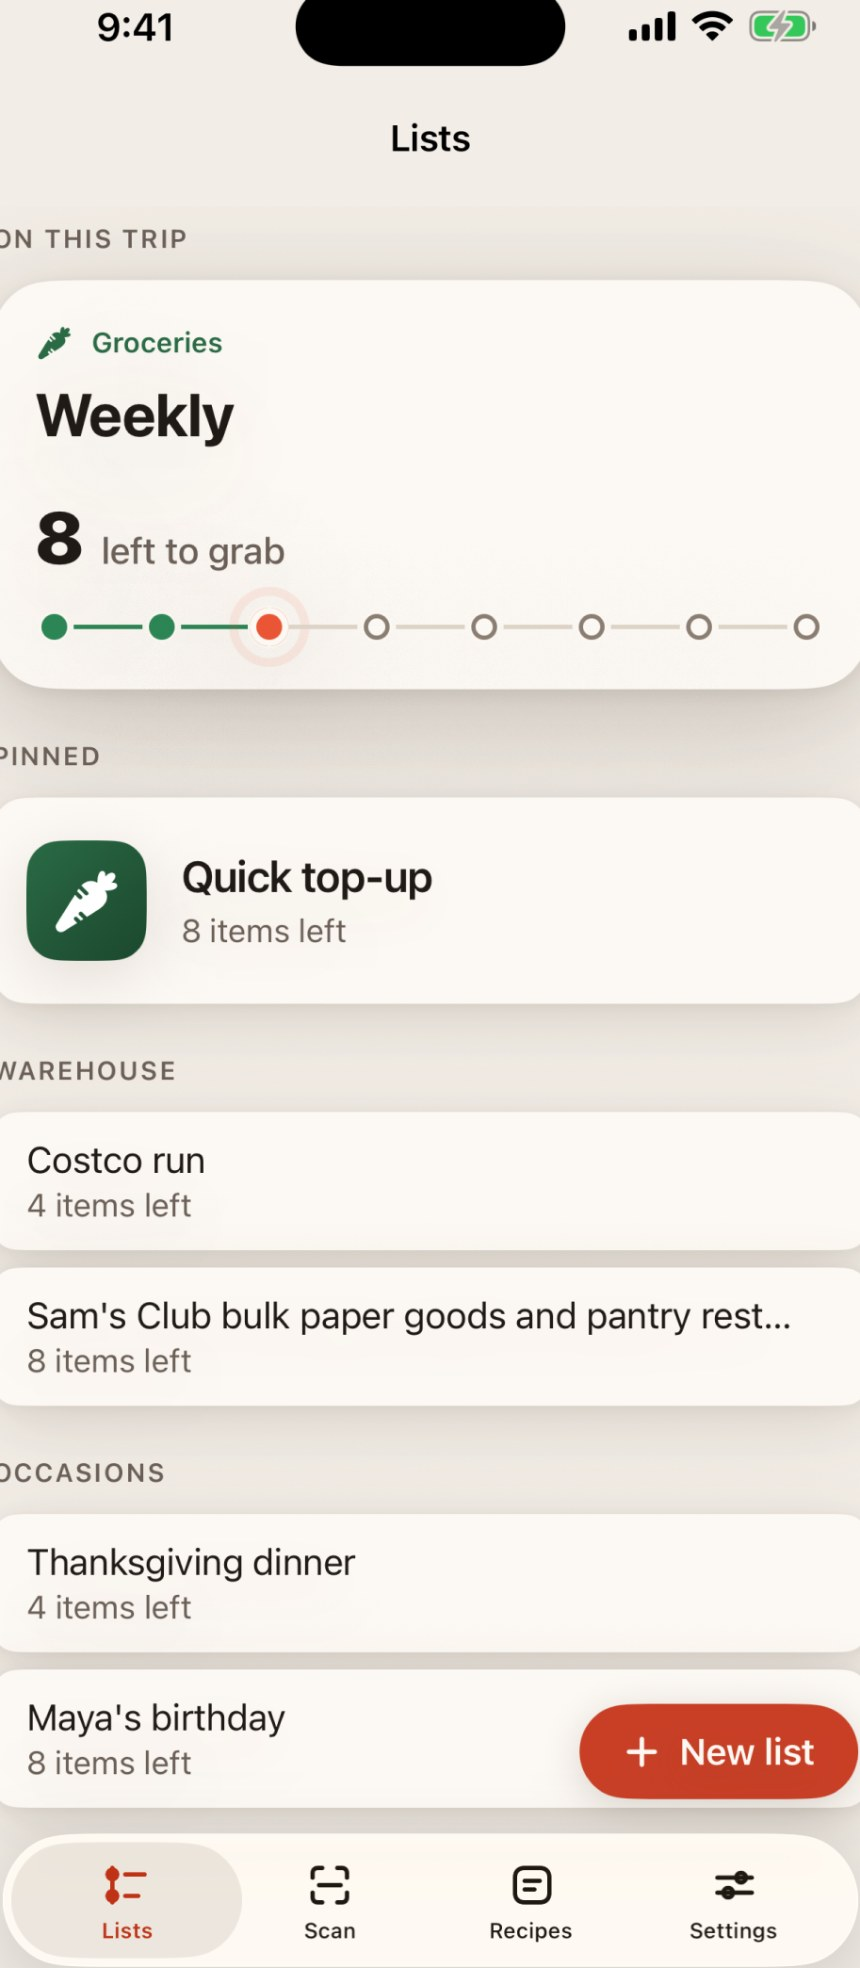
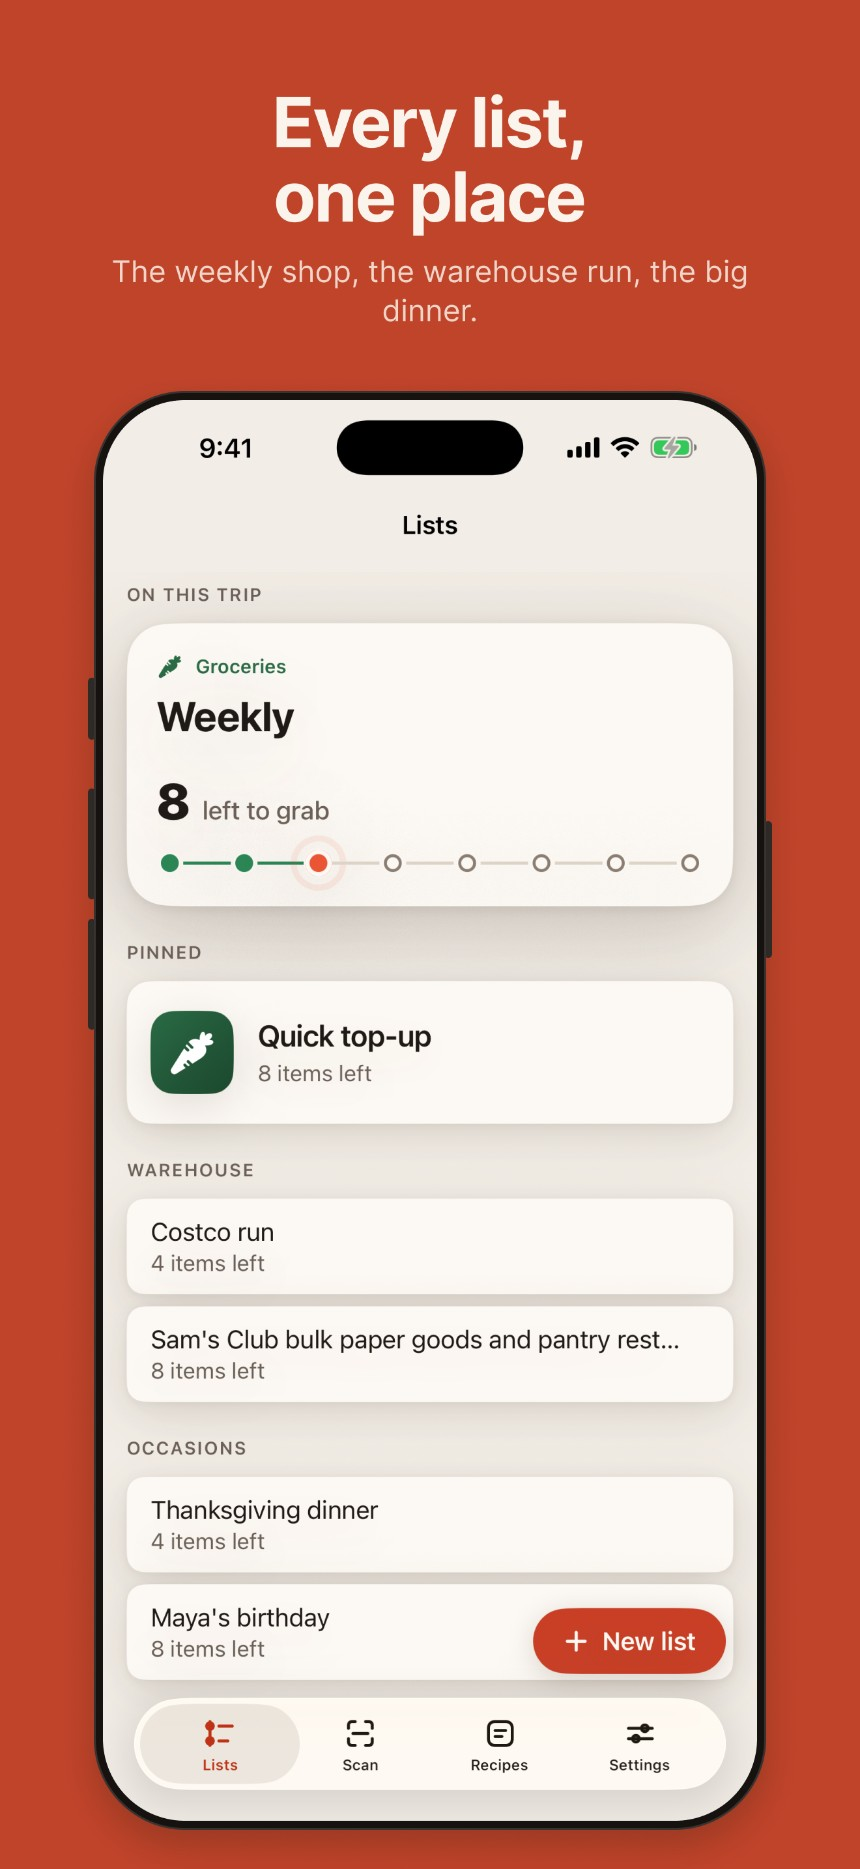
Show the actual App Store frames, not just their cropped screens
Ryan: "why aren't you using the real pictures from the file?" -- the
hero, decision 5's scan shot, and the recipe-gallery shot now show the
real App Store marketing frames as shipped (coral background,
headline, device bezel), not the screen-content-only crop from the
last round. Decision 1's shopping screen stays the crop on purpose:
its full frame's headline ("Never zigzag the store again") advertises
the walk-order aisle feature that Decision 6 explicitly says is
"planned, not yet built," so showing it elsewhere would contradict the
page's own honesty framing.

Claude-Session: https://claude.ai/code/session_01XEkgzxDcBknc2Tp3oGGt8n

diff --git a/src/routes/CopiaCaseStudy.jsx b/src/routes/CopiaCaseStudy.jsx
@@ -71,6 +71,20 @@ import copiaPaywall from '@/assets/copia-paywall.jpg';
 // consistent with itself. PhoneShot.jsx itself is untouched and still
 // used by the home page's Copia teaser card.
 //
+// FULL FRAMES, NOT CROPS (Ryan: "why aren't you using the real pictures
+// from the file?"): the hero, decision 5's scan shot, and the recipe
+// gallery shot now show the actual App Store marketing frames as
+// shipped -- coral background, headline, device bezel and all --
+// instead of the screen-content-only crop used above. Decision 1's
+// shopping screen is the one deliberate exception: its full frame's
+// own headline ("Never zigzag the store again") advertises the
+// walk-order aisle feature that Decision 6 explicitly says is
+// "planned, not yet built," so that one stays the screen-only crop to
+// avoid the page contradicting itself. 4-paste.png (the fifth frame,
+// "One link. Whole list.") is still unused -- its source file has a
+// baked-in rendering glitch, a ghost status bar overlaid on the "Read
+// the recipe" button.
+//
 // AUDIENCE PASS (Ryan: "these seem engineering heavy... optimized for
 // PRODUCT designers / UX / UI designers"): "Building for trust" and "What
 // testers changed" were rewritten to drop implementation-level detail a
@@ -151,7 +165,7 @@ export default function CopiaCaseStudy() {
         <figure className="cs-shot cs-shot--phone">
           <img
             src={copiaHomeDark}
-            alt="Copia's home screen: an active-trip hero card with a route progress dial, a pinned quick-top-up list, and category rows"
+            alt="Copia App Store screenshot, 'Every list, one place': the Lists screen with an active-trip hero card, a route progress dial, a pinned quick-top-up list, and category rows"
             loading="lazy"
           />
         </figure>
@@ -350,7 +364,7 @@ export default function CopiaCaseStudy() {
             <figure className="cs-shot cs-shot--phone">
               <img
                 src={copiaScanPages}
-                alt="Copia's live scan view: camera framing a cookbook page with corner guides, 'Reading page 4 of 9,' ingredients streaming in below as they're recognized"
+                alt="Copia App Store screenshot, 'Stop retyping ingredients': camera framing a cookbook page with corner guides, 'Reading page 4 of 9,' ingredients streaming in below as they're recognized"
                 loading="lazy"
               />
               <figcaption>
@@ -469,7 +483,7 @@ export default function CopiaCaseStudy() {
           <figure className="cs-shot cs-shot--phone">
             <img
               src={copiaRecipes}
-              alt="Copia's recipe browser: search, quick filters (Under 30 min, Low effort), featured recipes with real photos"
+              alt="Copia App Store screenshot, 'Recipes in. Groceries out.': the recipe browser with search, quick filters (Under 30 min, Low effort), featured recipes with real photos"
               loading="lazy"
             />
             <figcaption>Browsing: search, quick filters, real photography.</figcaption>
